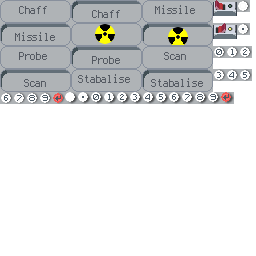
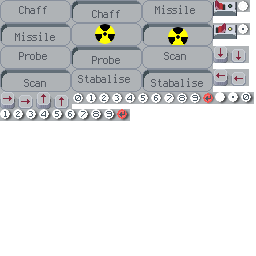
Arming progress bar

Changed region(s): [[0.0, 0.1562, 1.0, 0.5]]

diff --git a/game_view.py b/game_view.py
@@ -499,11 +499,11 @@ class GameView(ui.RootElement):
                              self.keypad_pressed)
 
         self.scan_button = ui.ImageBoxButton(globals.screen_root,
-                                             Point(0.45,0.15),
+                                             Point(0.43,0.15),
                                              ('button_scan.png','button_scan_pressed.png'),
                                              lambda a,b,c: self.start_scan())
         self.stabalise_button = ui.ImageBoxButton(globals.screen_root,
-                                                  Point(0.45,0.07),
+                                                  Point(0.43,0.07),
                                                   ('button_stabalise.png','button_stabalise_pressed.png'),
                                                   lambda a,b,c: self.hit_stabalise())
 
@@ -535,7 +535,44 @@ class GameView(ui.RootElement):
                                                     lambda state,weapon=3: self.select_weapon(state, weapon))
 
         self.weapon_buttons = [self.missile_button, self.probe_button, self.nuke_button, self.chaff_button]
+        self.arm_button = ui.ImageBoxButton(globals.screen_root,
+                                            Point(0.836,0.125),
+                                            ('button_up_..png','button_down_..png'),
+                                            lambda a,b,c: self.arm_weapon())
 
+        self.weapon_arm_times = [1000, #missile
+                                 1500, #probe
+                                 5000, #nuke
+                                 200] #chaff
+
+        bl = Point(0.48,0.085)
+        self.thrust_up_button = ui.ImageBoxButton(globals.screen_root,
+                                                  bl + Point(0.1,0.07),
+                                                  ('thruster_up.png','thruster_up_pressed.png'),
+                                                  lambda a,b,c,dir=Point(0,1): self.thrust(dir))
+        self.thrust_down_button = ui.ImageBoxButton(globals.screen_root,
+                                                    bl + Point(0.1,0.0),
+                                                    ('thruster_down.png','thruster_down_pressed.png'),
+                                                    lambda a,b,c,dir=Point(0,-1): self.thrust(dir))
+        self.thrust_left_button = ui.ImageBoxButton(globals.screen_root,
+                                                    bl + Point(0.07,0.035),
+                                                    ('thruster_left.png','thruster_left_pressed.png'),
+                                                    lambda a,b,c,dir=Point(0,-1): self.thrust(dir))
+        self.thrust_right_button = ui.ImageBoxButton(globals.screen_root,
+                                                     bl + Point(0.13,0.035),
+                                                     ('thruster_right.png','thruster_right_pressed.png'),
+                                                     lambda a,b,c,dir=Point(0,-1): self.thrust(dir))
+
+        bl = Point(0.8,0.01)
+        tr = bl + Point(0.1,0.03)
+        self.arm_progress = ui.PowerBar(globals.screen_root,
+                                        pos = bl,
+                                        tr = tr,
+                                        level = 0,
+                                        bar_colours = (drawing.constants.colours.red,
+                                                       drawing.constants.colours.yellow,
+                                                       drawing.constants.colours.green),
+                                        border_colour = (0,0,0,0.4))
 
         self.StartMusic()
         self.stabalise_orbit(Objects.ENEMY)
@@ -566,7 +603,11 @@ class GameView(ui.RootElement):
 
         self.firing_solution = None
         self.selected_weapon = None
+        self.arm_end = None
         self.firing_solution_steps = []
+
+    def thrust(self, dir):
+        print dir
 
     def keypad_pressed(self, n):
         #print 'kp',n
@@ -723,6 +764,15 @@ class GameView(ui.RootElement):
             self.overlay.SetColour( self.no_overlay )
             self.stabalise_orbit(Objects.PLAYER)
 
+        if self.arm_end is not None:
+            if globals.time > self.arm_end:
+                self.console.add_text('Armed')
+                self.arm_end = None
+                self.armed = True
+            else:
+                partial = float(globals.time - self.arm_start)/self.arm_duration
+                self.arm_progress.SetBarLevel(partial)
+
         #kill missiles in flight
         to_destroy = []
         for obj_type, t in self.detonation_times.iteritems():
@@ -868,6 +918,17 @@ class GameView(ui.RootElement):
             self.saved_segs[obj_type] = []
 
         self.fill_state_obj(obj_type)
+
+    def arm_weapon(self):
+        if self.selected_weapon is None:
+            self.console.add_text('No weapon selected')
+            return
+        self.arm_start = globals.time
+        self.arm_duration = self.weapon_arm_times[self.selected_weapon]
+        self.arm_end = globals.time + self.arm_duration
+        self.armed = False
+        self.arm_progress.SetBarLevel(0)
+        self.console.add_text('Arming...')
 
     def select_weapon(self, state, index):
         if not state:
